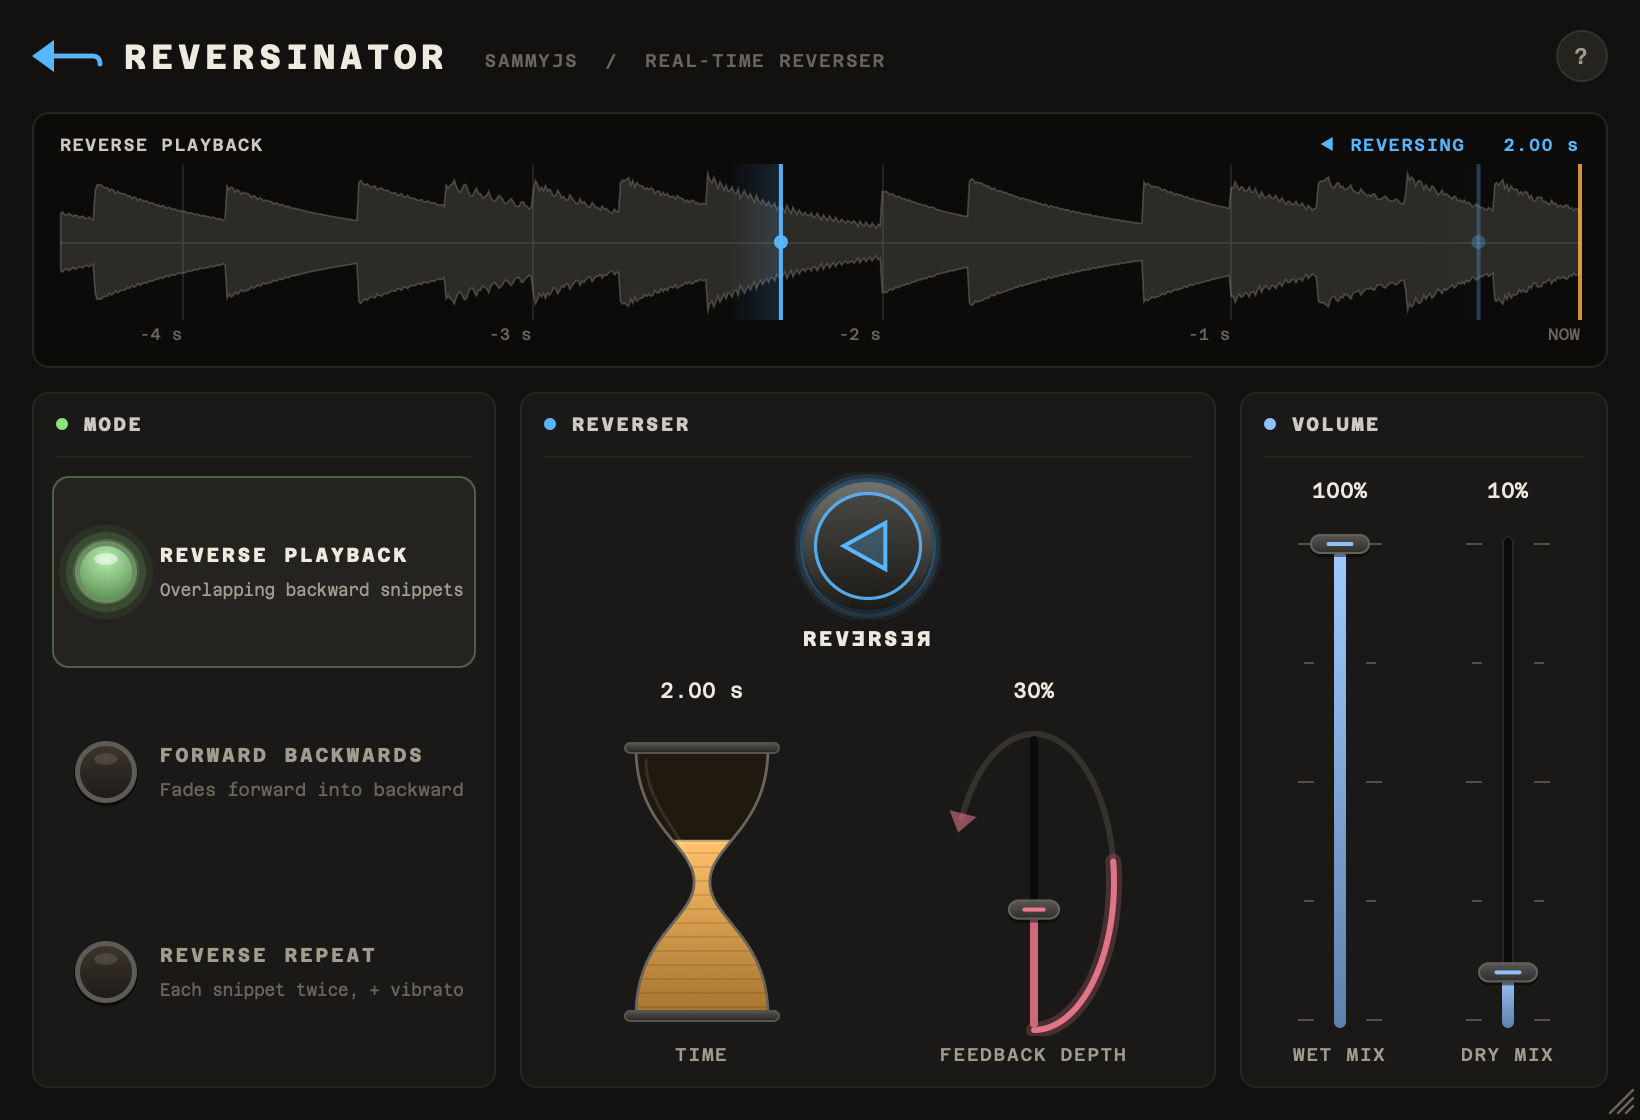
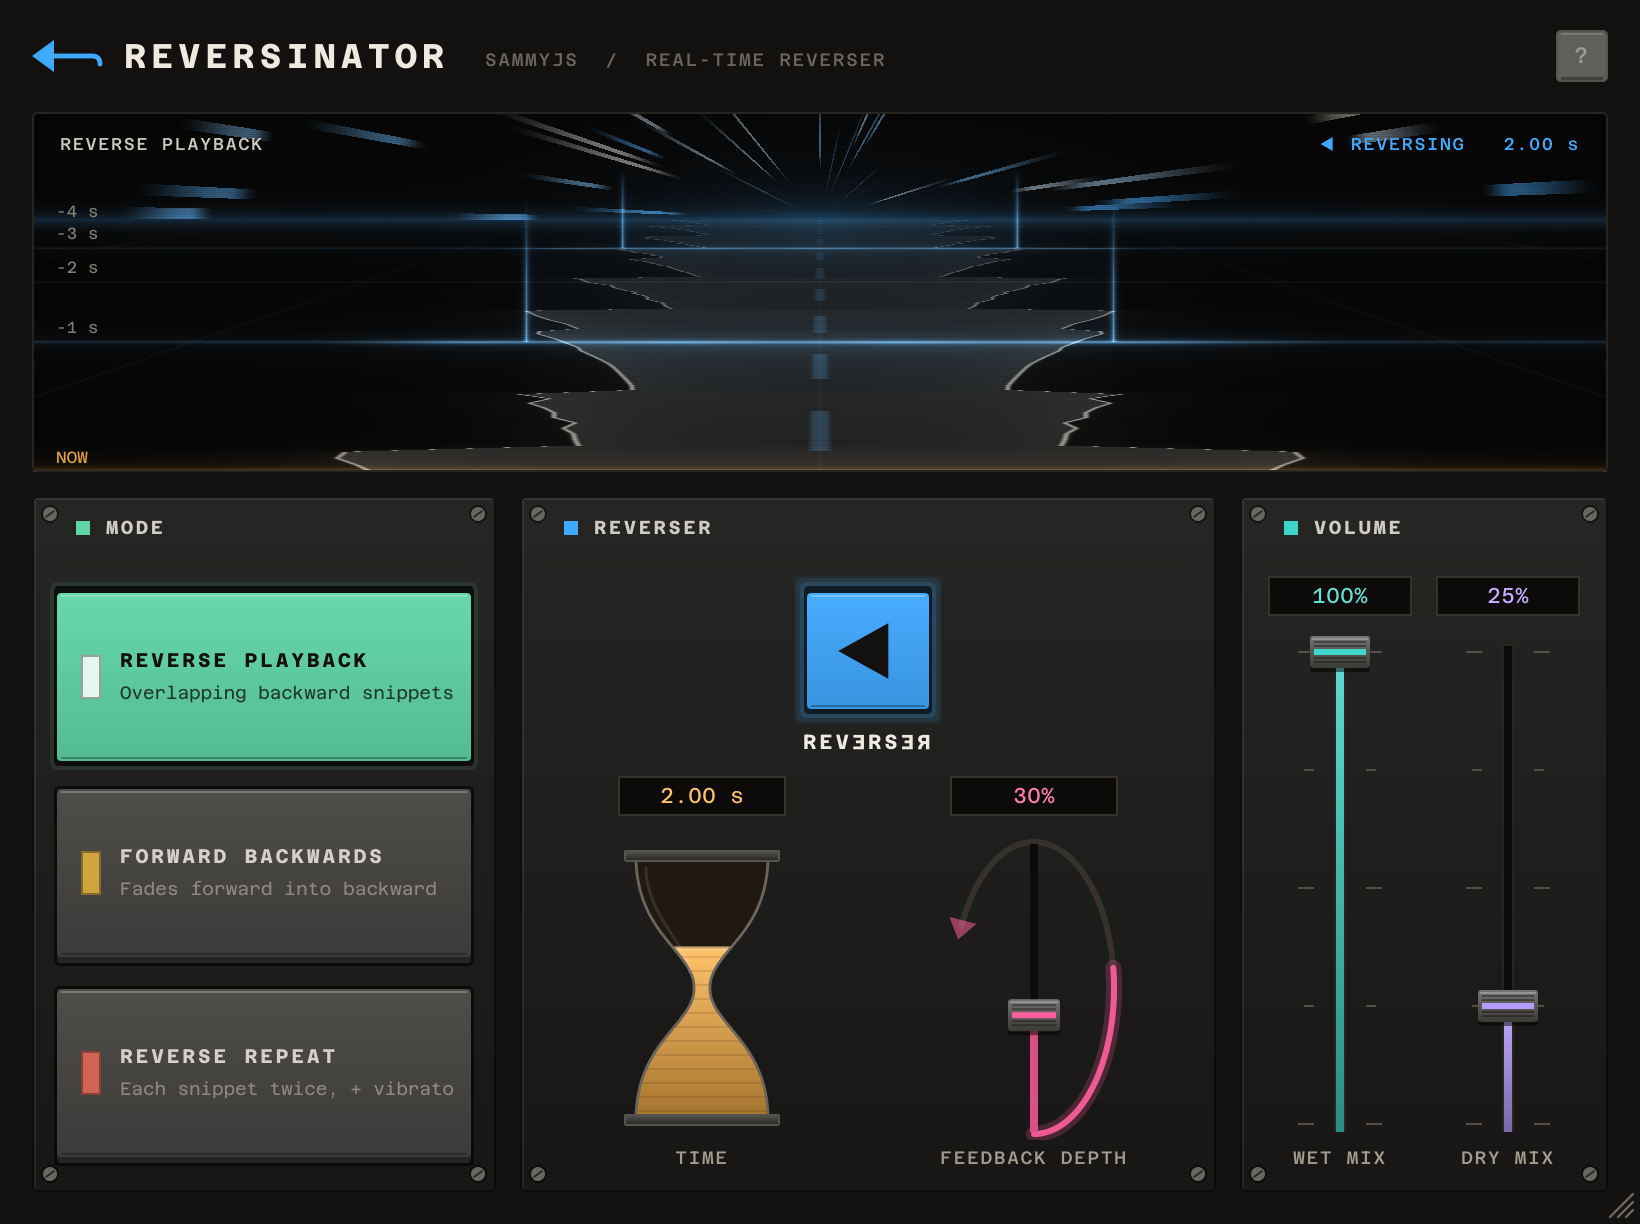
Reversinator: README tour for the new look; display follows the frames drawn
The tour, the main screenshot and the 16 guide images show the time-highway
display and the tactile controls, captured from the live OpenGL window.

The display now switches between the scene's labels and its flat view by
checking when the scene was last drawn, instead of a one-off message from
the GL thread, so it recovers by itself after a context restart.

diff --git a/reversinator/Source/PluginEditor.cpp b/reversinator/Source/PluginEditor.cpp
@@ -52,6 +52,7 @@ ReversinatorAudioProcessorEditor::ReversinatorAudioProcessorEditor(ReversinatorA
     m_openGL.setComponentPaintingEnabled(true);
     m_openGL.setContinuousRepainting(true);
     m_openGL.attachTo(*this);
+    startTimerHz(15);
 
     // Looks for a newer release in the background (at most once a day; silent if offline) and shows
     // the popup if there is one. The offline test runner builds with this off, so it never goes online.
@@ -64,6 +65,7 @@ ReversinatorAudioProcessorEditor::ReversinatorAudioProcessorEditor(ReversinatorA
 ReversinatorAudioProcessorEditor::~ReversinatorAudioProcessorEditor()
 {
     m_updateCheck.reset();   // stop the check before anything it calls back into goes away
+    stopTimer();
     m_openGL.detach();
     m_tooltipWindow.setLookAndFeel(nullptr);
     setLookAndFeel(nullptr);
@@ -79,16 +81,24 @@ void ReversinatorAudioProcessorEditor::paint(juce::Graphics& g)
 
 void ReversinatorAudioProcessorEditor::setSceneLive(bool live)
 {
+    if (m_content.getDisplay().isSceneLive() == live)
+        return;
+
     m_content.getDisplay().setSceneLive(live);
     m_content.repaint();
     repaint();
 }
 
+void ReversinatorAudioProcessorEditor::timerCallback()
+{
+    // Live while a frame was drawn in the last second, so a short stall does not flip the display.
+    const auto last = m_lastSceneFrame.load();
+    setSceneLive(last != 0 && juce::Time::getMillisecondCounter() - last < 1000);
+}
+
 void ReversinatorAudioProcessorEditor::newOpenGLContextCreated()
 {
-    m_sceneReported = false;
-    if (! m_scene.create(m_openGL))
-        return;
+    m_scene.create(m_openGL);   // if the shader fails, nothing is drawn and the display stays flat
 }
 
 void ReversinatorAudioProcessorEditor::renderOpenGL()
@@ -111,23 +121,12 @@ void ReversinatorAudioProcessorEditor::renderOpenGL()
     m_scene.draw(m_openGL, pixels.withY(height - pixels.getBottom()), m_content.getDisplay().getFrame(),
                  juce::Time::getMillisecondCounterHiRes() * 0.001);
 
-    if (! m_sceneReported.exchange(true))
-        juce::MessageManager::callAsync([safe = juce::Component::SafePointer<ReversinatorAudioProcessorEditor>(this)]
-        {
-            if (safe != nullptr)
-                safe->setSceneLive(true);
-        });
+    m_lastSceneFrame = juce::jmax(juce::uint32(1), juce::Time::getMillisecondCounter());
 }
 
 void ReversinatorAudioProcessorEditor::openGLContextClosing()
 {
     m_scene.release();
-    m_sceneReported = false;
-    juce::MessageManager::callAsync([safe = juce::Component::SafePointer<ReversinatorAudioProcessorEditor>(this)]
-    {
-        if (safe != nullptr)
-            safe->setSceneLive(false);
-    });
 }
 
 void ReversinatorAudioProcessorEditor::showUpdatePopup(const sammyj::UpdateInfo& info)

diff --git a/reversinator/Source/PluginEditor.h b/reversinator/Source/PluginEditor.h
@@ -13,7 +13,7 @@
  * Laid out at a fixed base size and scaled uniformly, so the window can be
  * resized (keeping its aspect ratio) without re-flowing anything.
  */
-class ReversinatorAudioProcessorEditor : public juce::AudioProcessorEditor, private juce::OpenGLRenderer
+class ReversinatorAudioProcessorEditor : public juce::AudioProcessorEditor, private juce::OpenGLRenderer, private juce::Timer
 {
 public:
     explicit ReversinatorAudioProcessorEditor(ReversinatorAudioProcessor&);
@@ -91,6 +91,10 @@ private:
     void openGLContextClosing() override;
     void setSceneLive(bool live);
 
+    // The display shows the scene's labels only while frames are actually being drawn, and its flat
+    // view otherwise. This follows the frames themselves, so it recovers after a context restart.
+    void timerCallback() override;
+
     ReversinatorAudioProcessor& m_processor;
     juce::SharedResourcePointer<Theme::Fonts> m_fonts;
     Controls::LookAndFeel m_lookAndFeel;
@@ -100,7 +104,7 @@ private:
 
     juce::OpenGLContext m_openGL;
     TimeHighway::Renderer m_scene;                       // GL thread only
-    std::atomic<bool> m_sceneReported { false };         // GL thread: has told the message thread it is drawing
+    std::atomic<juce::uint32> m_lastSceneFrame { 0 };    // when the GL thread last drew the scene (0: never)
     juce::Rectangle<int> m_sceneArea;                    // the display, in this component's coordinates
     juce::SpinLock m_sceneAreaLock;
 

diff --git a/reversinator/README.md b/reversinator/README.md
@@ -22,7 +22,7 @@ For comparison, a single 192 kbps MP3 round trip, the format the demos were publ
 
 Nothing clicks. REVERSER switches with a 10 ms crossfade, as on the original. TIME changes crossfade between the old and new read positions. Switching effects crossfades straight into the new one, because every effect shares the same input history. Host bypass crossfades too, and the effect keeps running underneath, so un-bypassing lands in a live effect. Wet, dry and feedback changes are smoothed. All of this is independent of the host's buffer size.
 
-The display is a scrolling view of the recent input with each read head drawn as it sweeps backwards through it, so you can see what each effect is doing. The interface follows the original's layout: mode lamps, the big REVERSER button, an hourglass TIME control and a feedback loop. The window is resizable from 75% to 200%. Menus, fields, links, tooltips and keyboard focus rings share Subbertone's look.
+The display is an OpenGL scene: a road running from now into the past, as wide as the input was loud, with each read head drawn as a gate of light sweeping back along it, so you can see what each effect is doing. The interface follows the original's layout, built like hardware: three coloured mode keys, the big REVERSER key, an hourglass TIME control and a feedback loop. The window is resizable from 75% to 200%.
 
 It runs mono or stereo at any sample rate. The effect itself is a delay, so no latency is reported to the host.
 
@@ -41,36 +41,37 @@ It runs mono or stereo at any sample rate. The effect itself is a delay, so no l
 
 ### 1. Snippet display
 
-The display shows the last few seconds of input and where the effect is reading from it. Time runs from right to left: **NOW** is the right-hand edge, with a grid line for every second before it.
+The display shows the last few seconds of input and where the effect is reading from it, as a road seen in perspective. **NOW** is the near edge at the bottom, and the past runs away to the horizon, with a line across for every second.
 
-- The grey shape is the input's level, newest at the right.
-- The amber line at NOW is where new audio comes in.
-- Each blue line with a dot is a **read head**: the point in the input being played back. A head starts at NOW and sweeps back to 2 × TIME ago, playing what it passes backwards at normal speed. It brightens as its snippet fades in and dims as it fades out.
+- The road is the input's level: the louder the input was at a moment, the wider the road is there.
+- The amber line along the near edge is where new audio comes in.
+- Each gate of light across the road, with a post at each side, is a **read head**: the point in the input being played back. A head starts at NOW and sweeps back to 2 × TIME ago, playing what it passes backwards at normal speed. It brightens as its snippet fades in and dims as it fades out.
+- Stars stream out of the horizon while the effect is reversing.
 - Top left is the effect's name. Top right is **REVERSING** or **FORWARDS** (see [REVERSER](#3-reverser)) and the TIME setting.
 
-The display always shows enough history for every head, a little over twice TIME (two and a half times in Reverse Repeat). Each effect at TIME 2.00 s:
+The road always shows enough history for every head, a little over twice TIME (two and a half times in Reverse Repeat). Seconds near the horizon are drawn closer together. If OpenGL is not available, the display falls back to a flat timeline with NOW at the right-hand edge. Each effect at TIME 2.00 s:
 
-<img src="docs/guide/display-reverse-playback.png" width="804" alt="The snippet display in Reverse Playback: two read heads two seconds apart, both half bright">
+<img src="docs/guide/display-reverse-playback.png" width="804" alt="The snippet display in Reverse Playback: two gates on the road, one and three seconds back, both half bright">
 
 **Reverse Playback**: two heads, TIME apart. As one fades out the other fades in, so the backwards stream never stops.
 
-<img src="docs/guide/display-forward-backwards.png" width="804" alt="The snippet display in Forward Backwards: one read head one second back, and a dot at NOW">
+<img src="docs/guide/display-forward-backwards.png" width="804" alt="The snippet display in Forward Backwards: one gate one second back, and one at NOW">
 
-**Forward Backwards**: one backwards head, plus a dot at NOW for the forwards sound. As one brightens the other fades, so the sound turns smoothly from forwards to backwards and back, once per TIME period.
+**Forward Backwards**: one backwards head, plus a gate that stays at NOW for the forwards sound. As one brightens the other fades, so the sound turns smoothly from forwards to backwards and back, once per TIME period.
 
 <img src="docs/guide/display-reverse-repeat.png" width="804" alt="The snippet display in Reverse Repeat: the read head one second back and its repeat four seconds back">
 
 **Reverse Repeat**: the backwards head and its repeat. The repeat plays again, TIME/2 later and with a slight vibrato, what the first head played.
 
-<img src="docs/guide/display-forwards.png" width="804" alt="The snippet display with REVERSER set to forwards: grey read heads and FORWARDS at the top right">
+<img src="docs/guide/display-forwards.png" width="804" alt="The snippet display with REVERSER set to forwards: grey gates and stars, and FORWARDS at the top right">
 
-**REVERSER set to forwards**: the heads turn grey but keep moving. The effect keeps running, so switching back to reverse lands in it at once.
+**REVERSER set to forwards**: the scene turns grey and the stars drift back slowly, but the heads keep moving. The effect keeps running, so switching back to reverse lands in it at once.
 
 ### 2. MODE
 
-<img src="docs/guide/mode.png" width="248" alt="The MODE panel with Reverse Playback lit">
+<img src="docs/guide/mode.png" width="248" alt="The MODE panel with the Reverse Playback key lit">
 
-Click a lamp to choose one of the three effects. The lit lamp is the one playing, and each lamp sums up its effect in a line:
+Click a key to choose one of the three effects. Each key has its own colour. The one playing stays pushed in and lit, and each key sums up its effect in a line:
 
 - **Reverse Playback**: overlapping backward snippets, for a continuous backwards stream.
 - **Forward Backwards**: fades between the forwards sound and the backwards one.
@@ -80,14 +81,14 @@ Switching crossfades into the new effect over 30 ms. Every effect reads the same
 
 ### 3. REVERSER
 
-<img src="docs/guide/reverser-on.png" width="160" alt="The REVERSER button reversing: a left arrow with a blue glow"> <img src="docs/guide/reverser-off.png" width="160" alt="The REVERSER button set to forwards: a grey right arrow">
+<img src="docs/guide/reverser-on.png" width="160" alt="The REVERSER key reversing: lit blue with a left arrow"> <img src="docs/guide/reverser-off.png" width="160" alt="The REVERSER key set to forwards: dark with a right arrow">
 
-The big round button chooses between the effect and the forwards input:
+The big square key chooses between the effect and the forwards input:
 
-- **Arrow left, blue glow** (the default): you hear the effect, and the display reads REVERSING.
-- **Arrow right, grey**: you hear the input forwards at the WET MIX level, with DRY MIX added, and the display reads FORWARDS.
+- **Lit blue, arrow left** (the default): you hear the effect, and the display reads REVERSING.
+- **Dark, arrow right**: you hear the input forwards at the WET MIX level, with DRY MIX added, and the display reads FORWARDS.
 
-The switch crossfades over 10 ms, so it never clicks, and the effect keeps running underneath. Automate it to flip a phrase backwards and back on the beat. The label under the button reads REVƎRSƎЯ, partly backwards, as on Backwards Machine.
+The switch crossfades over 10 ms, so it never clicks, and the effect keeps running underneath. Automate it to flip a phrase backwards and back on the beat. The label under the key reads REVƎRSƎЯ, partly backwards, as on Backwards Machine.
 
 ### 4. TIME
 
@@ -97,7 +98,7 @@ The switch crossfades over 10 ms, so it never clicks, and the effect keeps runni
 
 The hourglass sets the length of each snippet that is played backwards, from 0.5 to 4 seconds. Sand fills it from the bottom as TIME gets longer. The default of 2 seconds tends to sound best. Short times get more of the control's travel: halfway up is about 1.4 s.
 
-TIME changes crossfade over 20 ms from the old timing to the new, so you can sweep it while audio plays. The snippet display widens or narrows to match.
+TIME changes crossfade over 20 ms from the old timing to the new, so you can sweep it while audio plays. The snippet display shows more or less of the past to match.
 
 ### 5. FEEDBACK DEPTH
 
@@ -105,7 +106,7 @@ The loop, beside the hourglass, feeds the effect back into itself, from 0 to 75%
 
 ### 6. VOLUME
 
-<img src="docs/guide/volume.png" width="200" alt="The VOLUME panel: WET MIX at 100% and DRY MIX at 10%">
+<img src="docs/guide/volume.png" width="200" alt="The VOLUME panel: WET MIX at 100% and DRY MIX at 25%">
 
 - **WET MIX**: the level of the effect, and of the forwards input when REVERSER is set to forwards. The default is 100%.
 - **DRY MIX**: mixes in the original input. Usually 0% (the default), but useful for hearing forwards and backwards together.
@@ -122,7 +123,7 @@ Both use the original's squared law, so 50% is -12 dB. The ticks mark every 25%.
 
 ### 8. Resizing
 
-Drag the grip in the bottom-right corner to resize the window, from 75% to 200% of its normal size (615 × 420 to 1640 × 1120). The proportions stay the same, and the size is saved with your session.
+Drag the grip in the bottom-right corner to resize the window, from 75% to 200% of its normal size (615 × 459 to 1640 × 1224). The proportions stay the same, and the size is saved with your session.
 
 ## Mouse and keyboard
 
@@ -132,8 +133,8 @@ Drag the grip in the bottom-right corner to resize the window, from 75% to 200% 
 | Nudge one of them | Scroll the mouse wheel over it. |
 | Reset one of them to its default | Double-click it, or Alt-click it (Option-click on a Mac). |
 | Type a value | Click the value above the control (see below). |
-| Choose an effect | Click its lamp. |
-| Switch REVERSER | Click the round button. |
+| Choose an effect | Click its key. |
+| Switch REVERSER | Click the big square key. |
 | See what a control does | Rest the mouse on it. |
 
 ### Typing a value
@@ -152,7 +153,7 @@ Rest the mouse on any control for a moment and a tooltip says what it does.
 
 <img src="docs/guide/focus.png" width="248" alt="The MODE panel with Reverse Playback lit and the blue keyboard focus ring on Forward Backwards">
 
-When the host passes keystrokes to the plugin window, Tab and Shift-Tab move the keyboard focus through the mode lamps, REVERSER, the four value boxes and **?**. A blue ring shows which lamp or button has it, and Return presses that one. A value box opens for typing as soon as Tab reaches it. The ring appears only once you press Tab, and a click hides it again. Above, Reverse Playback is playing and the ring is on Forward Backwards.
+When the host passes keystrokes to the plugin window, Tab and Shift-Tab move the keyboard focus through the mode keys, REVERSER, the four value boxes and **?**. A blue ring shows which key has it, and Return presses that one. A value box opens for typing as soon as Tab reaches it. The ring appears only once you press Tab, and a click hides it again. Above, Reverse Playback is playing and the ring is on Forward Backwards.
 
 ## The effects
 
